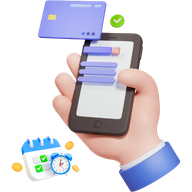
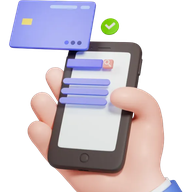
결제일 관리 페이지 파비콘을 카드·휴대폰 이미지로 교체
- 원본의 흰색 '결제 관리' 글자(흰 배경에선 안 보이고 어두운 탭에서 보임)는 지움
- 브라우저가 예전 아이콘을 캐시하지 않도록 ?v= 추가

Claude-Session: https://claude.ai/code/session_01NSYqrFMdkUW2kX9Kzg7cYv

diff --git a/payment.html b/payment.html
@@ -4,10 +4,10 @@
 <meta charset="utf-8">
 <meta name="viewport" content="width=device-width, initial-scale=1">
 <title>결제일 관리</title>
-<link rel="icon" type="image/png" sizes="32x32" href="icons/payment-32.png">
-<link rel="icon" type="image/png" sizes="16x16" href="icons/payment-16.png">
-<link rel="icon" type="image/png" sizes="192x192" href="icons/payment-192.png">
-<link rel="apple-touch-icon" sizes="180x180" href="icons/payment-apple-touch.png">
+<link rel="icon" type="image/png" sizes="32x32" href="icons/payment-32.png?v=20261016">
+<link rel="icon" type="image/png" sizes="16x16" href="icons/payment-16.png?v=20261016">
+<link rel="icon" type="image/png" sizes="192x192" href="icons/payment-192.png?v=20261016">
+<link rel="apple-touch-icon" sizes="180x180" href="icons/payment-apple-touch.png?v=20261016">
 <style>
   :root {
     --bg: #f6f7f9; --card: #fff; --text: #1f2328; --muted: #6b7280; --line: #e5e7eb;
